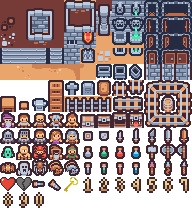
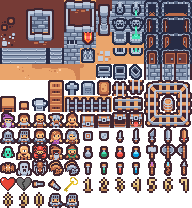
Walking animation

Changed region(s): [[0.25, 0.9231, 0.4062, 1.0]]

diff --git a/GameProject/Project1/Source/World.cpp b/GameProject/Project1/Source/World.cpp
@@ -466,24 +466,35 @@ void GS_World_Update(void) {
 
 	Player->velCurr = { 0,0 };// set velocity to 0 initially, if key is released, velocity is set back to 0
 
+	if (AEInputCheckReleased(AEVK_W) || AEInputCheckReleased(AEVK_UP) || AEInputCheckReleased(AEVK_S) || AEInputCheckReleased(AEVK_DOWN)
+		|| AEInputCheckReleased(AEVK_A) || AEInputCheckReleased(AEVK_LEFT) || AEInputCheckReleased(AEVK_D) || AEInputCheckReleased(AEVK_RIGHT)) {
+		Player->TextureMap = { 1,8 };
+	}
+
 	if (AEInputCheckCurr(AEVK_W) || AEInputCheckCurr(AEVK_UP)) // movement for W key 
 	{
 		Player->velCurr.y = 1;// this is direction , positive y direction
+		Player->walk();
 	}
 	if (AEInputCheckCurr(AEVK_S) || AEInputCheckCurr(AEVK_DOWN))
 	{
 		Player->velCurr.y = -1;// this is direction , negative y direction
+		Player->walk();
 	}
 	if (AEInputCheckCurr(AEVK_A) || AEInputCheckCurr(AEVK_LEFT))
 	{
 		Player->velCurr.x = -1;// this is direction , negative x direction
 		Player->scale = -1;
+		Player->walk();
 	}
 	if (AEInputCheckCurr(AEVK_D) || AEInputCheckCurr(AEVK_RIGHT))
 	{
 		Player->velCurr.x = 1;// this is direction , positive x direction
 		Player->scale = 1;
+		Player->walk();
 	}
+
+
 
 	if (AEInputCheckTriggered(AEVK_E)) {
 
@@ -516,6 +527,7 @@ void GS_World_Update(void) {
 				}
 			}
 		}
+
 
 		//Interaction with Chest
 		if (Player->calculateDistance(*Chest[0]) < 1)
@@ -707,6 +719,8 @@ void GS_World_Update(void) {
 		slashObj->timetracker = 0;
 		SLASH_ACTIVATE = false;
 	}
+
+	Player->timetracker += g_dt;
 
 	switch (Backpack.Potion)
 	{

diff --git a/GameProject/Project1/Header/GameObjs.h b/GameProject/Project1/Header/GameObjs.h
@@ -48,6 +48,7 @@ struct GameObjInst
 	AEVec2				TextureMap; // object's coordinates for sprite in spritesheet, irrelevant if spritesheet not used
 	int					health;		// object's health level
 	int					damage;		// object's damage parameter
+	float				timetracker;// object's time of existence
 
 	// Member functions
 
@@ -90,6 +91,8 @@ struct GameObjInst
 		The calculated distance between the 2 objects
 	*************************************************************************/
 	float calculateDistance(staticObjInst staticObj);
+
+	void walk();
 };
 
 // This enum is a list of the different types of game objects

diff --git a/GameProject/Project1/Source/GameObjs.cpp b/GameProject/Project1/Source/GameObjs.cpp
@@ -17,6 +17,20 @@ void GameObjInst::recoverhealth(int recover)
 	}
 }
 
+//player walk
+void GameObjInst::walk()
+{
+	if ((int)(timetracker*4) % 2 == 1) {
+		TextureMap.x = 3;
+		TextureMap.y = 12;
+	}
+	else {
+		TextureMap.x = 4;
+		TextureMap.y = 12;
+	}
+}
+
+
 float GameObjInst::calculateDistance(GameObjInst dynamicObj) {
 	return sqrt((posCurr.x - dynamicObj.posCurr.x) * (posCurr.x - dynamicObj.posCurr.x) +
 		(posCurr.y - dynamicObj.posCurr.y) * (posCurr.y - dynamicObj.posCurr.y));
